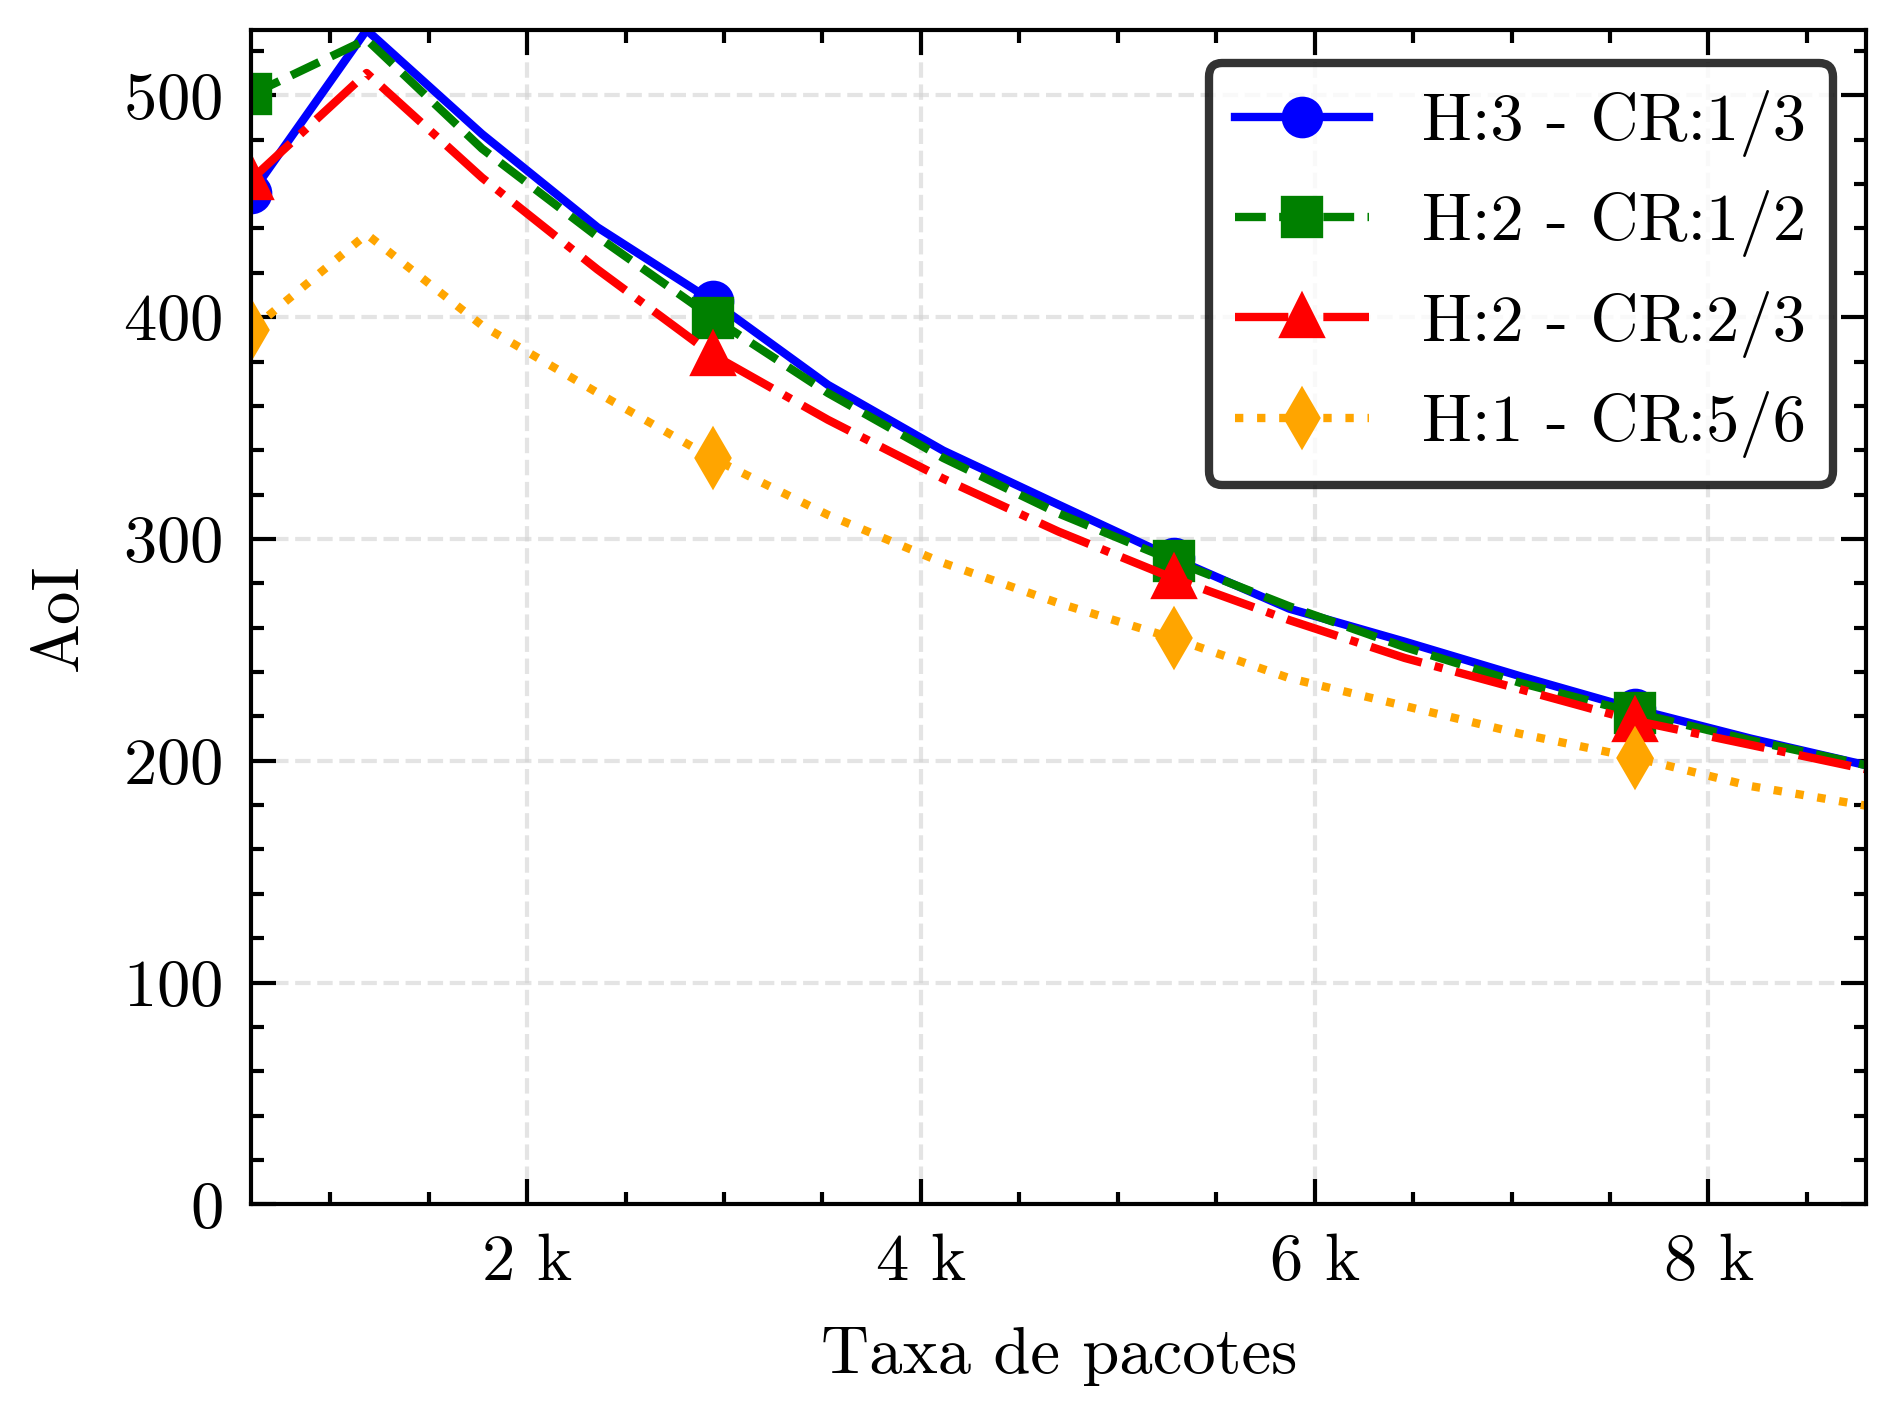
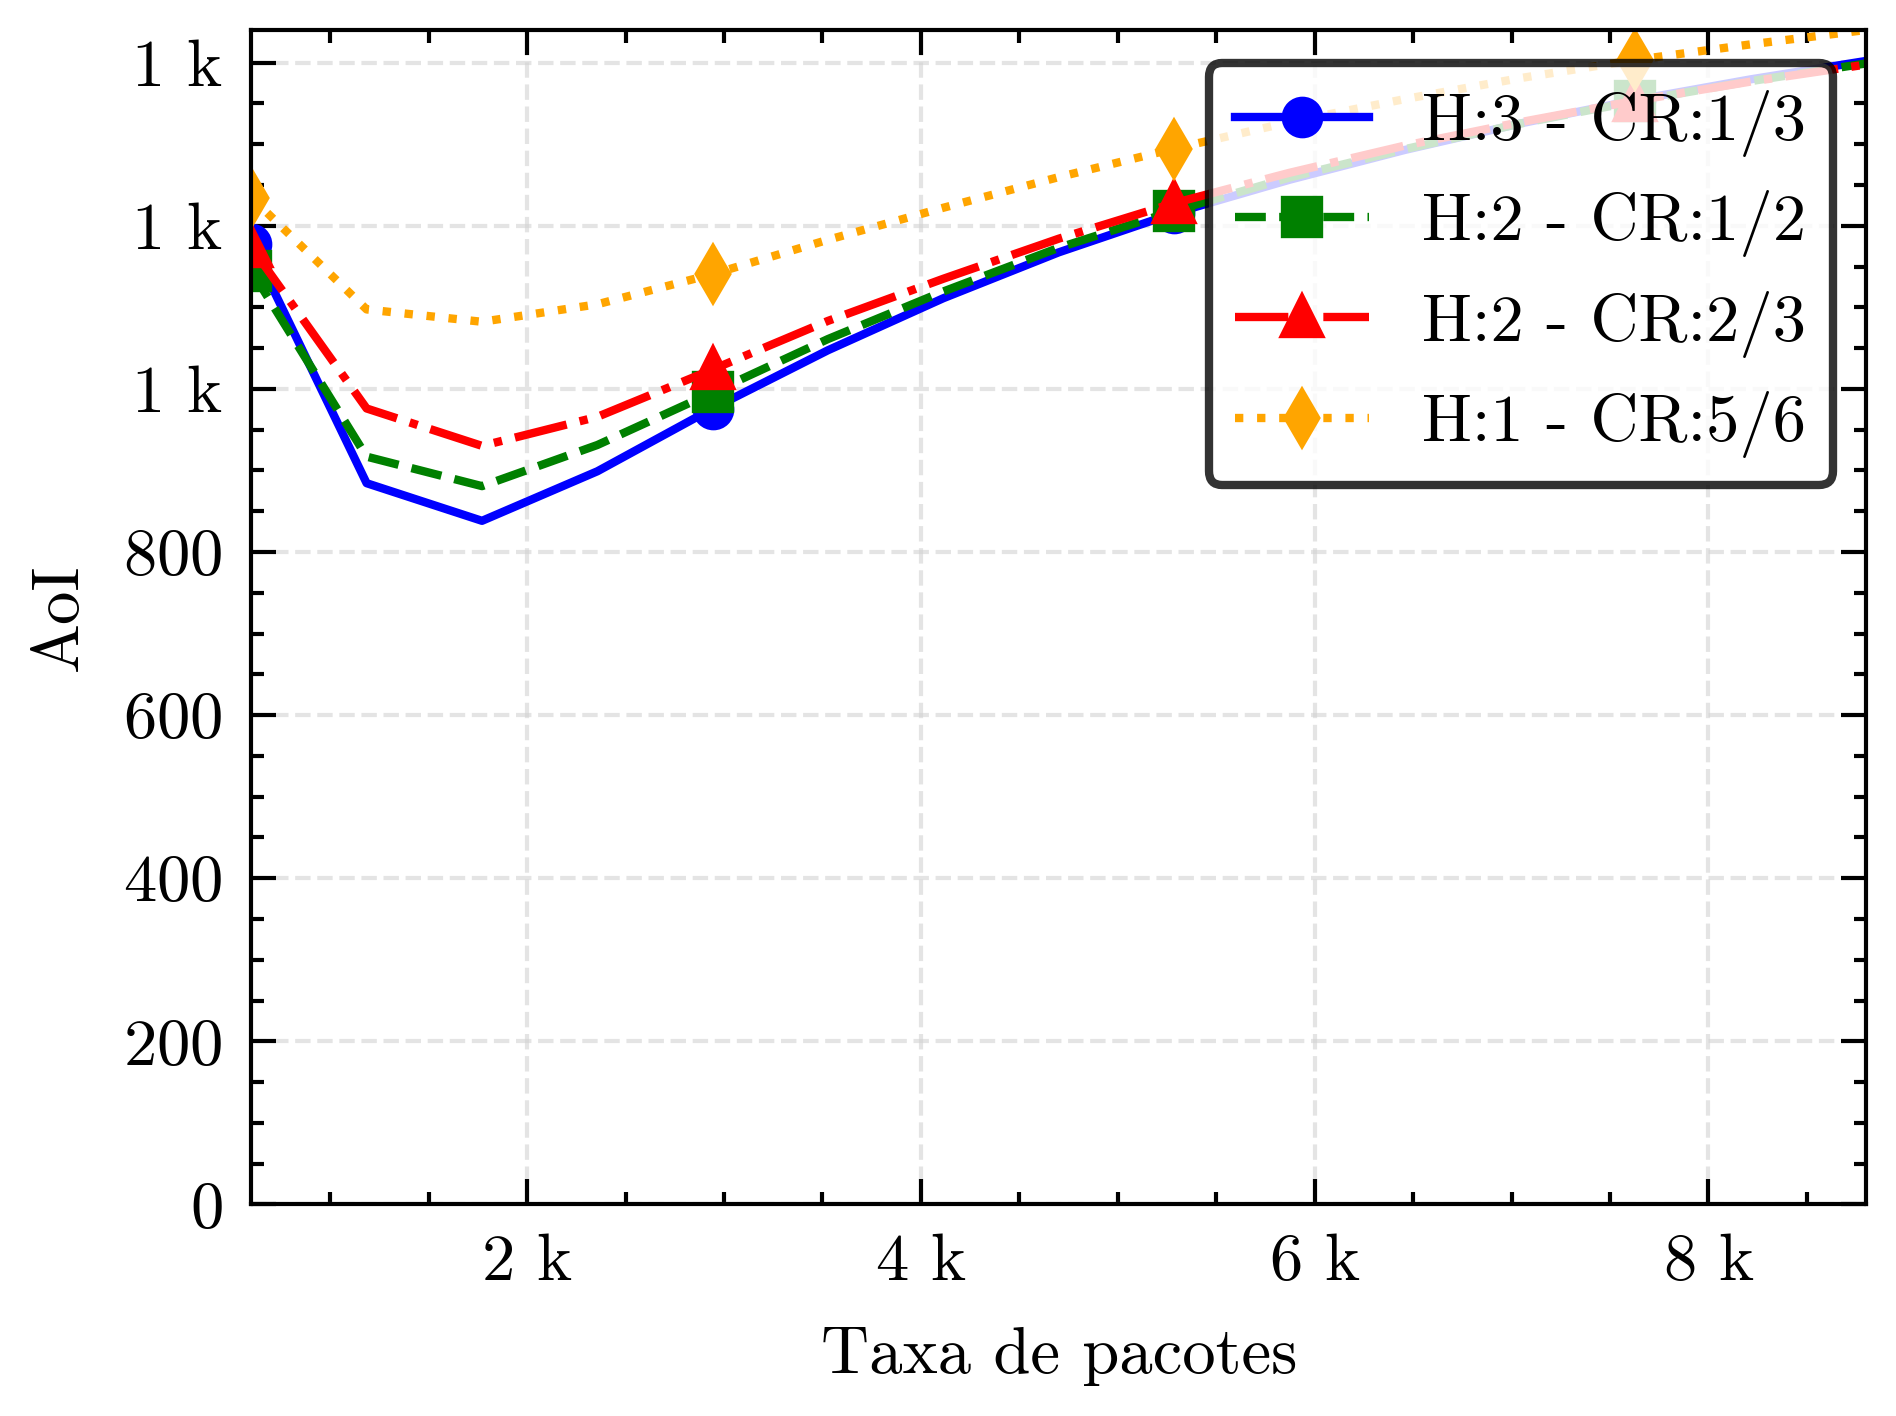
Fixed AoI FINAL graphs

diff --git a/lrfhss/run.py b/lrfhss/run.py
@@ -22,38 +22,51 @@ def run_sim(settings: Settings, seed=0):
     # after simulation
 
     ######## Cálculo da AoI ########  
-    H_i_num = 0
+    aoi = [] 
     
     for n in nodes: 
-      r_n_1=0
-      s_n_1=0
-      loop=0
-      
-      #H_i_num = 0
-      
-      #A variável 'p' recebe o timestamp final associado ao pacote 'n'
-      for p in n.final_timestamp:
-          
-         # H_i_num = 0
-          if(n.final_timestamp != 0 ):   
-              r_n=p
-              s_n=n.initial_timestamp[loop]
-          ### CALCULA AoI
-              H_i=(r_n-r_n_1)*(r_n_1 - s_n_1) + ((r_n - r_n_1)**2)/2
-              H_i_num += H_i
+        last_reception = 0.0
+        last_generation = 0.0
+        total_area = 0.0
+        loop=0
+        has_success = False  # Check if any packet was received
 
-          if(n.final_timestamp == 0 ):  
-              
-                  H_i = 0
-                  H_i_num += H_i 
-          
-          if r_n>0:
-                  r_n_1=r_n
-                  s_n_1=s_n
-              
-          loop=loop+1
+        for p in n.final_timestamp:
+            #H_i_num = 0
+            if p != 0:  # Successful reception
+                has_success = True
+                current_generation_time = n.initial_timestamp[loop]
 
-    AoI_media = (H_i_num/((settings.simulation_time))/settings.number_nodes) 
+                if last_reception == 0.0:  # First reception
+                    # AoI from 0 to p is a triangle (no prior packets)
+                    time_interval = p - 0
+                    total_area += 0.5 * (time_interval ** 2)
+                else:
+                    # AoI from last_reception_time to p
+                    time_interval = p - last_reception
+                    triangle_area = 0.5 * (time_interval ** 2)
+                    rectangle_height = p - n.initial_timestamp[loop] if last_reception > 0 else 0.0
+                    rectangle_area = rectangle_height * time_interval
+                    total_area += triangle_area + rectangle_area
+                
+                last_reception = p
+                last_generation = current_generation_time
+            loop=loop+1
+
+        if has_success:
+            if p==0: # Cálculo do AoI até o final da simulação se o último pacote não foi decodificado.
+                time_interval = settings.simulation_time - last_reception
+                triangle_area = 0.5 * (time_interval ** 2)
+                rectangle_height = settings.simulation_time - last_generation
+                rectangle_area = rectangle_height * time_interval
+                total_area += triangle_area + rectangle_area
+        else:
+            # Nenhum pacote recebido durante toda simulação : AoI is a triangle from 0 to settings.simulation_time
+            total_area = 0.5 * (settings.simulation_time ** 2)
+
+        aoi.append(total_area/settings.simulation_time)
+
+    AoI_media=np.mean(aoi)
     
     ######## Cálculo da AoI ######## 
 

diff --git a/paper/graphs/numdevices_aoi_graph.py b/paper/graphs/numdevices_aoi_graph.py
@@ -146,7 +146,7 @@ with plt.style.context(['science', 'ieee', 'no-latex']):
    
 
     # Melhorias visuais
-    leg = ax.legend(loc='upper right', frameon=True, facecolor='white', framealpha=0.8, edgecolor='black')
+    leg = ax.legend(loc='lower right', frameon=True, facecolor='white', framealpha=0.8, edgecolor='black')
     ax.grid(ls='--', color='lightgray', alpha=0.6)
     ax.autoscale(tight=True)
     ax.set(**pparam)
